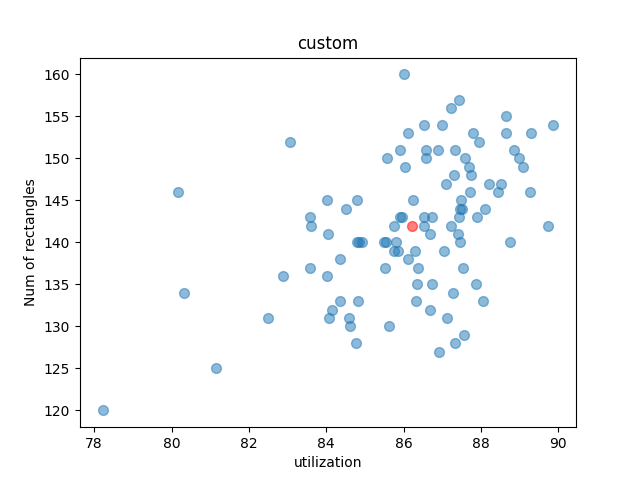
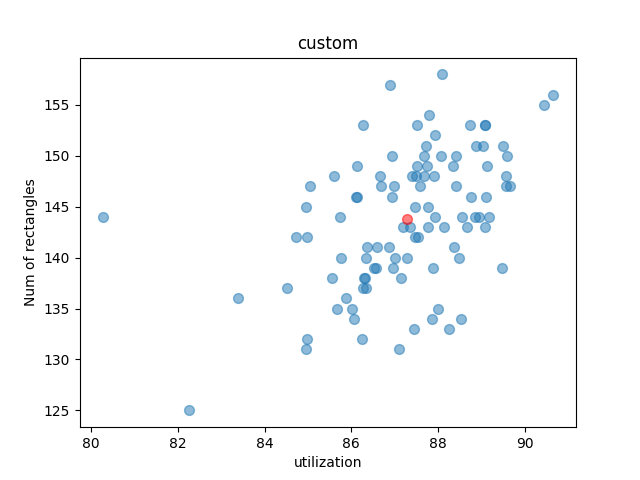
added a minor fix for best case 100% packing

diff --git a/policies.py b/policies.py
@@ -175,14 +175,14 @@ class CustomPolicy(Container):
     def check_if_rect_fits_in_strip(self, strip_num, rectangle):
         if self.invalid_range[strip_num] is not None:
             #BEFORE THE INVALID BLOCK
-            if(self.occupied_strip_width[strip_num] + rectangle.width < self.invalid_range[strip_num][0]):
+            if(self.occupied_strip_width[strip_num] + rectangle.width <= self.invalid_range[strip_num][0]):
                 return strip_num, -1
             #AFTER THE INVALID BLOCK
-            if(self.invalid_range[strip_num][1] + rectangle.width < self.width):
+            if(self.invalid_range[strip_num][1] + rectangle.width <= self.width):
                 return strip_num, 1
         else:
             #NO INVALID BLOCK PRESENT
-            if(self.occupied_strip_width[strip_num] + rectangle.width < self.width):
+            if(self.occupied_strip_width[strip_num] + rectangle.width <= self.width):
                 return strip_num, None
         return None, None
     
@@ -239,11 +239,11 @@ class CustomPolicy(Container):
                     strip_occupied_o = self.occupied_strip_width[strip_grp_num*2+1]
 
                 max_occupied_width = max(strip_occupied_e, strip_occupied_o)
-                if (rectangle.width < self.width - max_occupied_width):
+                if (rectangle.width <= self.width - max_occupied_width):
                     return strip_grp_num
             else: #fill into 16 blocks
                 index = strip_grp_num - self.NUM_STRIP_GROUPS
-                if (rectangle.width < self.width - self.occupied_strip_width[index]):
+                if (rectangle.width <= self.width - self.occupied_strip_width[index]):
                     print("placing in 16 blocks at ", index)
                     return strip_grp_num
 
